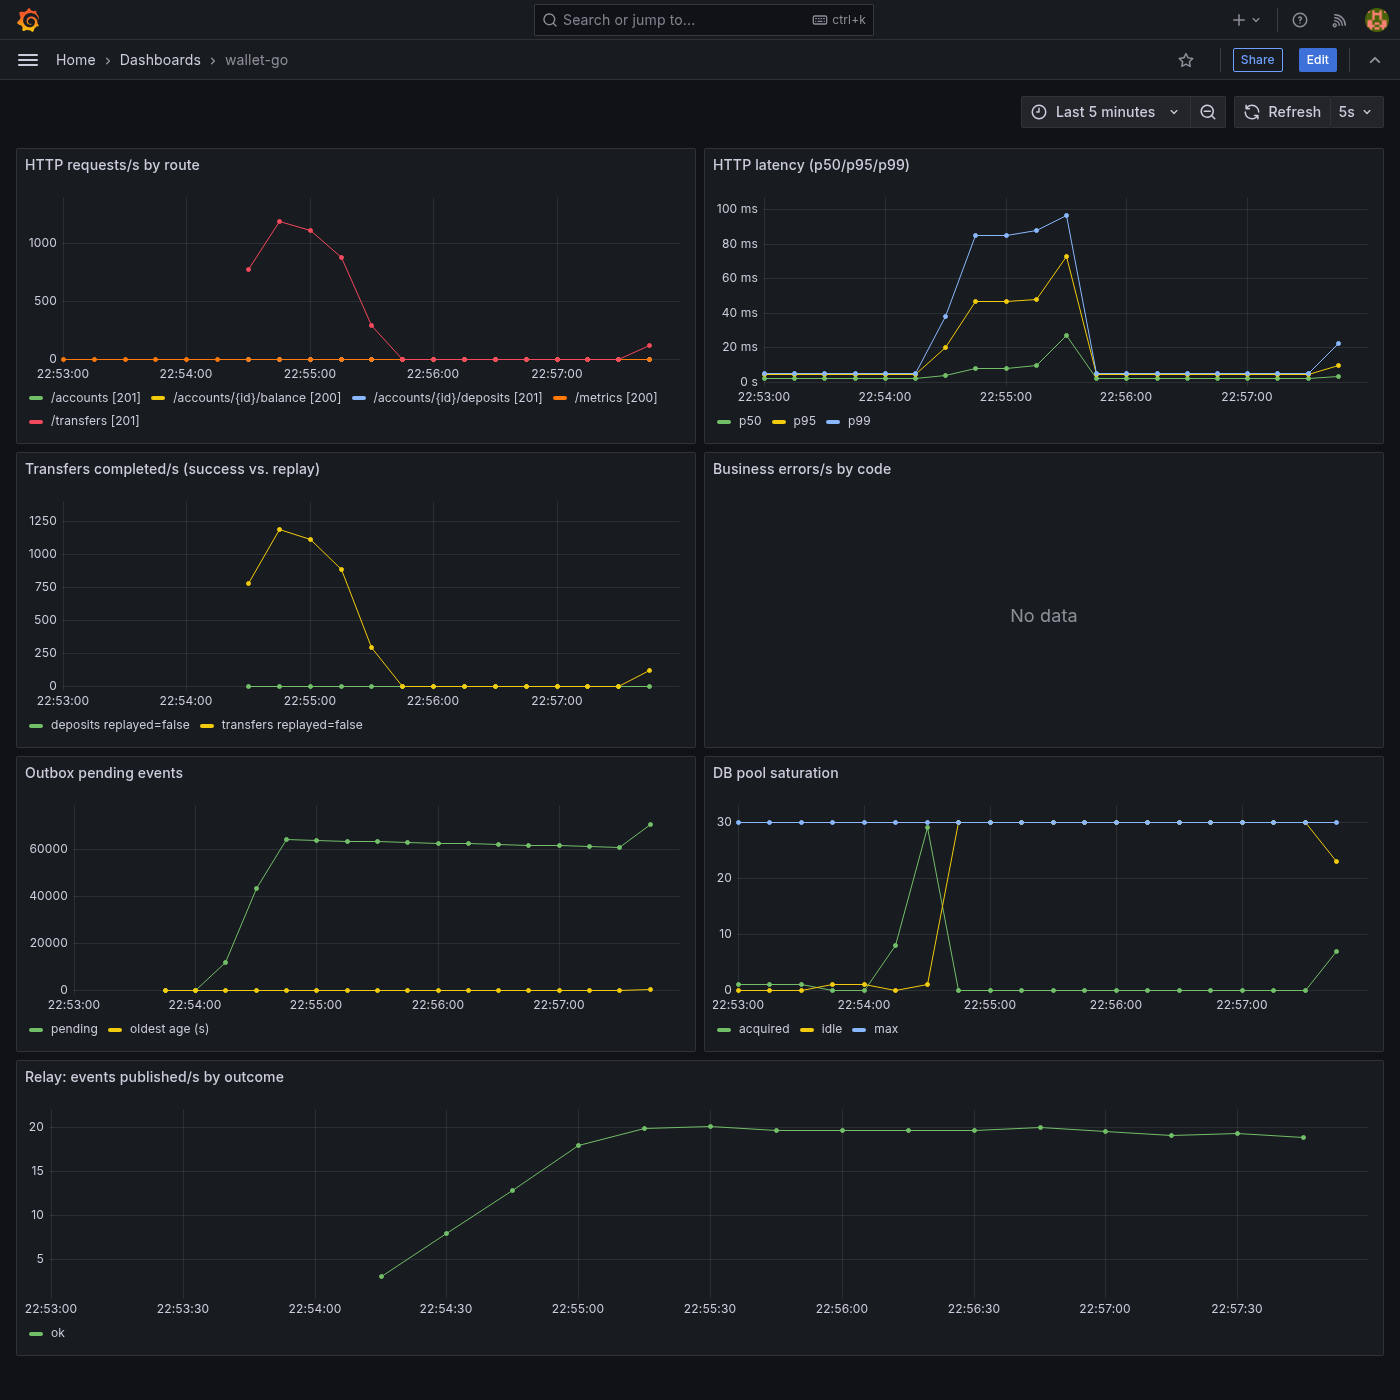
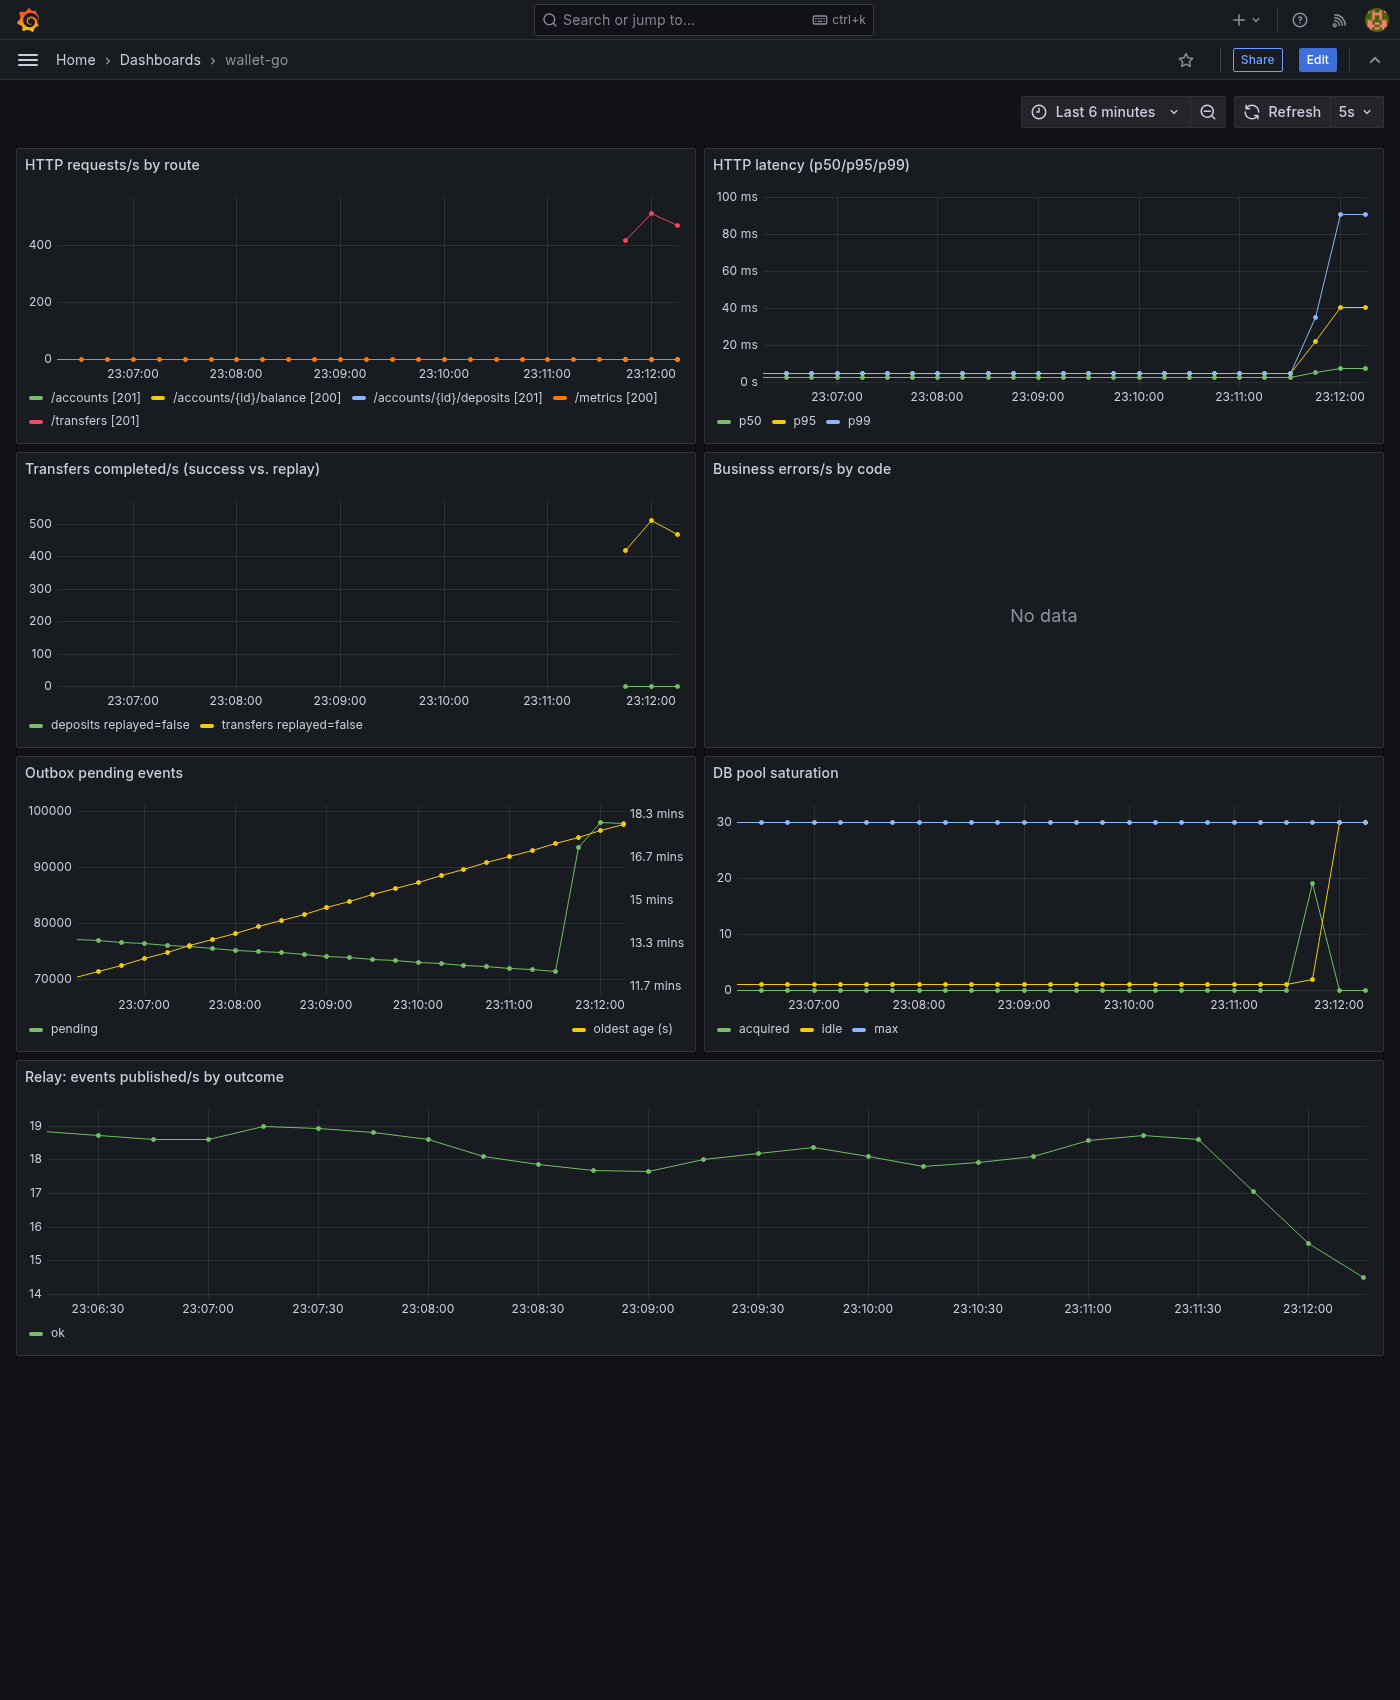
fix: split outbox lag panel onto independent Y-axes, refresh dashboard screenshot]

diff --git a/README.md b/README.md
@@ -172,11 +172,12 @@ linked ADR:
   ![Grafana dashboard under cmd/loadtest traffic](docs/img/grafana-dashboard.png)
 
   Captured while `cmd/loadtest` ramped from 8 to 32 workers: the outbox lag panel
-  shows the relay's default 1s/20-row poll genuinely falling behind the burst
-  (pending events climbing into the tens of thousands before draining), and the DB
-  pool panel shows `wallet_db_pool_acquired_conns` saturating at `WALLET_DB_MAX_CONNS`
-  — both exactly the kind of signal this pass was meant to make visible, not a flat
-  idle screenshot.
+  plots `pending` and `oldest age (s)` on independent axes — they differ by orders of
+  magnitude, so sharing one flattened the age line to zero — showing pending events
+  climbing toward 100k while the relay's default 1s/20-row poll genuinely falls
+  behind, and the DB pool panel shows `wallet_db_pool_acquired_conns` saturating at
+  `WALLET_DB_MAX_CONNS`. Both are exactly the kind of signal this pass was meant to
+  make visible, not a flat idle screenshot.
 
 ## Load testing
 
